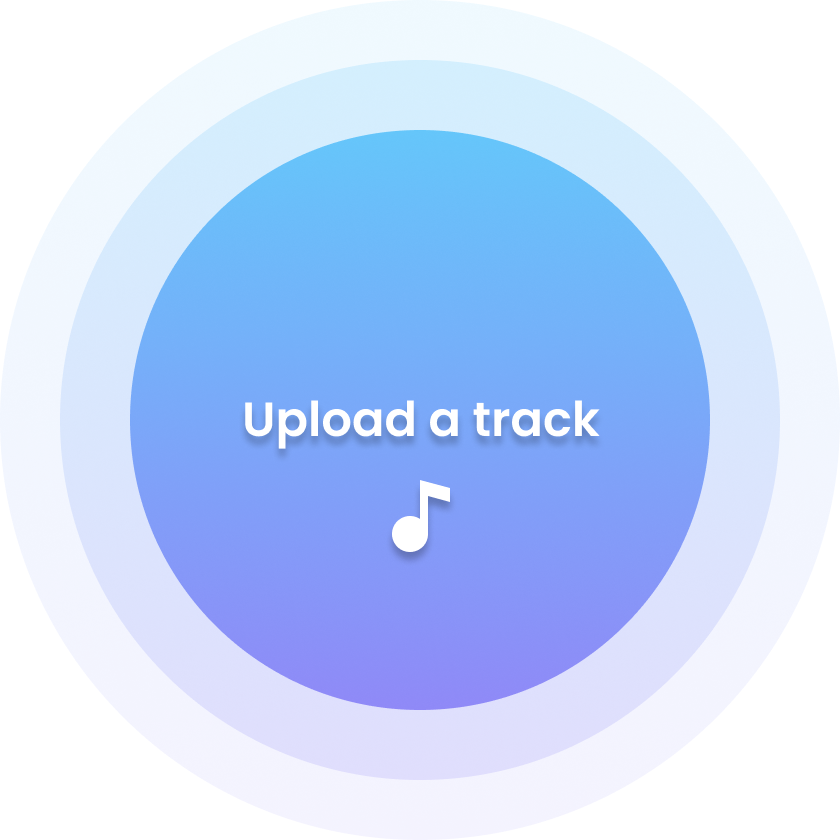
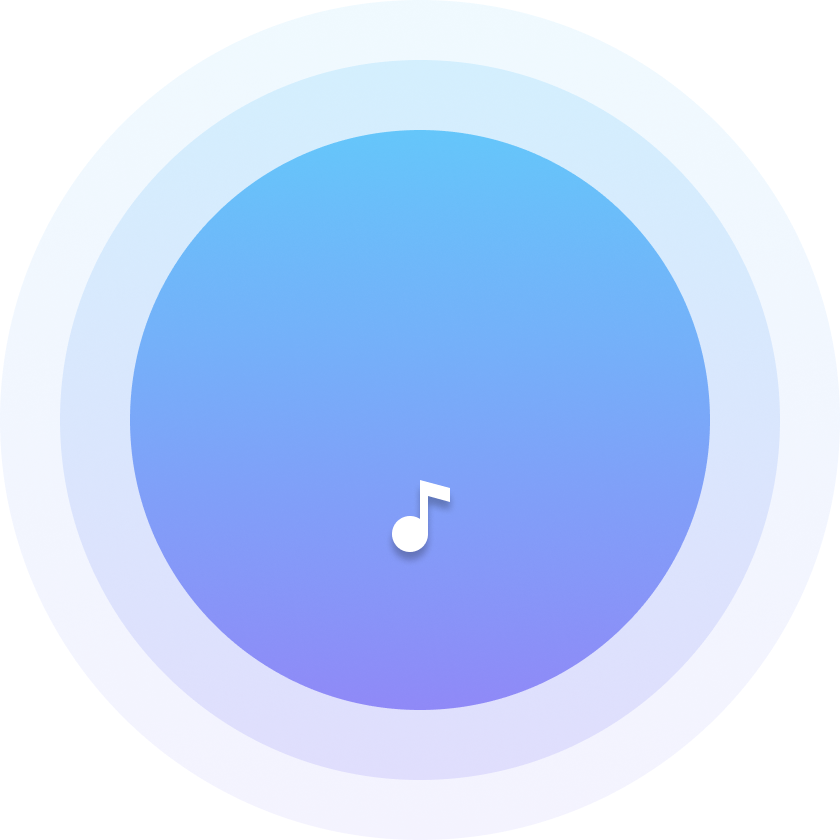
changes

Changed region(s): [[0.2786, 0.4643, 0.7119, 0.5571]]

diff --git a/index.html b/index.html
@@ -1,177 +1,94 @@
 <!DOCTYPE html>
 <html lang="en">
-  <head>
+
+<head>
     <title>Vocal Remover & Instrumental AI Splitter | SPLITTER.AI</title>
-    <link
-      rel="shortcut icon"
-      type="image/x-icon"
-      href="assets/icons/favicon.ico"
-    />
+    <link rel="shortcut icon" type="image/x-icon" href="assets/icons/favicon.ico" />
     <link rel="stylesheet" href="components/stylesheets/splitter_upload.css" />
     <link rel="stylesheet" href="components/stylesheets/navigation_bar.css" />
-    <link
-      rel="stylesheet"
-      href="components/stylesheets/general_components.css"
-    />
-    <style>
-      .text {
-        /* font-weight: 400; */
-        letter-spacing: 4.8px;
-        text-transform: uppercase;
-        font-family: "Kanit";
-        font-size: 8px;
-        fill: #111;
-        /* text-shadow: 2px 0px #ccc; */
-      }
+    <link rel="stylesheet" href="components/stylesheets/general_components.css" />
 
-      .caption_text {
-        letter-spacing: 1.1px;
-        text-transform: uppercase;
-        font-family: "Kanit";
-        font-size: 12px;
-        color: grey;
-      }
+</head>
 
-      #rotatingText {
-        animation-name: rotate-circle;
-        animation-duration: 60s;
-        animation-timing-function: linear;
-        animation-iteration-count: infinite;
-        grid-area: 1 / 1;
-      }
-
-      @keyframes rotate-circle {
-        to {
-          transform: rotate(1turn);
-        }
-      }
-
-      .main {
-        display: grid;
-        align-items: center;
-        justify-items: center;
-        grid-template-columns: 1fr;
-        grid-template-rows: 1fr;
-      }
-
-      .main .fileupload {
-        width: 65%;
-        height: 65%;
-        object-fit: cover;
-        grid-area: 1 / 1;
-      }
-      .p {
-        margin-top: -500px;
-        z-index: 1;
-        margin-left: 100px;
-        font-weight: 500;
-        color: black;
-      }
-
-      label {
-        /* display: block; */
-        margin-bottom: 5px;
-      }
-      .p input[type="file"] {
-        border-radius: 3px;
-        cursor: pointer;
-      }
-    </style>
-  </head>
-
-  <body class="body">
+<body class="body">
     <header>
-      <a href="#" class="logo" target="_blank">
-        <img src="assets/icons/favicon.ico" alt="" />
-      </a>
+        <a href="#" class="logo" target="_blank">
+            <img src="assets/icons/favicon.ico" alt="" />
+        </a>
 
-      <input
-        class="menu-icon"
-        type="checkbox"
-        id="menu-icon"
-        name="menu-icon"
-      />
-      <label for="menu-icon"></label>
-      <nav class="nav">
-        <ul class="pt-5">
-          <li><a href="#">Home</a></li>
-          <li><a href="#">Blogs</a></li>
-          <li><a href="#">About</a></li>
-          <li><a href="#">Contact</a></li>
-        </ul>
-      </nav>
+        <input class="menu-icon" type="checkbox" id="menu-icon" name="menu-icon" />
+        <label for="menu-icon"></label>
+        <nav class="nav">
+            <ul class="pt-5">
+                <li><a href="#">Home</a></li>
+                <li><a href="#">Blogs</a></li>
+                <li><a href="#">About</a></li>
+                <li><a href="#">Contact</a></li>
+            </ul>
+        </nav>
     </header>
 
     <!-- Divide Screen into two equal parts -->
     <div class="split left">
-      <div class="centered">
-        <div class="main">
-          <input
-            class="fileupload"
-            type="image"
-            src="assets/images/circular.png"
-            width="450"
-            height="450"
-          />
-          <p class="p">
-            <label for="soundFile"></label>
-            <input type="file" id="soundFile" accept="audio/*" />
-          </p>
-          <input type="file" id="my_file" style="display: none" />
-          <svg id="rotatingText" viewBox="0 0 200 200" width="500" height="500">
-            <defs>
-              <path
-                id="circle"
-                d="M 100, 100
+        <div class="centered">
+            <div class="main">
+                <input class="fileupload" type="image" src="assets/images/circular.png" width="450" height="450" />
+                <p class="uploadText">
+                    <!-- <label for="soundFile"></label>
+                    <input type="file" id="soundFile" accept="audio/*" /> -->
+                    <input id="upload" hidden type="file" />
+                    <label for="upload" class="btn btn-primary" tabindex="2">Upload music File</label>
+                </p>
+                <input type="file" id="my_file" style="display: none" />
+                <svg id="rotatingText" viewBox="0 0 200 200" width="500" height="500">
+                    <defs>
+                        <path id="circle" d="M 100, 100
                             m -75, 0
                             a 75, 75 0 1, 0 150, 0
                             a 75, 75 0 1, 0 -150, 0
-                            "
-              ></path>
-            </defs>
-            <text width="500">
-              <textPath
-                alignment-baseline="top"
-                xlink:href="#circle"
-                class="text"
-              >
-                • UPLOAD A TRACK • UPLOAD A TRACK • UPLOAD A TRACK •
-              </textPath>
-            </text>
-          </svg>
-        </div>
+                            "></path>
+                    </defs>
+                    <text width="500">
+                        <textPath alignment-baseline="top" xlink:href="#circle" class="text">
+                            • UPLOAD A TRACK • UPLOAD A TRACK • UPLOAD A TRACK •
+                        </textPath>
+                    </text>
+                </svg>
+            </div>
 
-        <!-- display text in light grey color -->
-        <div class="caption_text">
-          <p>
-            We support mp3, wav, flac, aiff, aif, mp4a, and m4a formats. For the
-            best results, upload in high resolution.
-          </p>
+            <!-- display text in light grey color -->
+            <div class="caption_text">
+                <p>
+                    We support mp3, wav, flac, aiff, aif, mp4a, and m4a formats. For the
+                    best results, upload in high resolution.
+                </p>
+            </div>
         </div>
-      </div>
     </div>
 
     <div class="split right">
-      <div class="centered">
-        <h1 class="align-right">Get Your Stems</h1>
-        <p class="description">
-          For sync licensing, sampling, remastering, remixing, and re-imagining.
-        </p>
-        <style>
-          .description {
-            font-size: 10px;
-            font-family: "Kanit";
-            font-weight: 400;
-            letter-spacing: 1.1px;
-            text-transform: uppercase;
-            color: grey;
-            margin-bottom: 24px;
-          }
-        </style>
+        <div class="centered">
+            <h1 class="align-right">Get Your Stems</h1>
+            <p class="description">
+                For sync licensing, sampling, remastering, remixing, and re-imagining.
+            </p>
+            <style>
+                .description {
+                    font-size: 10px;
+                    font-family: "Kanit";
+                    font-weight: 400;
+                    letter-spacing: 1.1px;
+                    text-transform: uppercase;
+                    color: grey;
+                    margin-bottom: 24px;
+                }
+            </style>
 
-        <button class="button button1">TRY FOR FREE</button>
-      </div>
+            <button class="button button1">   <input id="upload" hidden type="file" />
+                <label for="upload" class="btn btn-primary" tabindex="2">TRY FOR FREE</label></button>
+        </div>
     </div>
-  
-  </body>
+
+</body>
+
 </html>

diff --git a/about.html b/about.html
@@ -154,14 +154,13 @@
     <!-- about section -->
     <div class="about">
       <div class="about-header">
-        <h1>What is lalal.com?</h1>
+        <h1>What is audiosplitter.ai?</h1>
       </div>
       <div class="about-text">
         <span>
           A next-generation vocal remover and music source separation service
-          for fast, easy and precise stem extraction. Remove vocal,
-          instrumental, drums, bass, piano, electric guitar, acoustic guitar,
-          and synthesizer tracks without quality loss.
+          for fast, easy and precise stem extraction. Remove vocal and
+          instrumental, tracks without quality loss.
         </span>
       </div>
       <div class="icons-tag">
@@ -178,7 +177,7 @@
         <div class="box">
           <div class="box-content">
             <div class="box-inside">
-              <img src="/play.png" alt="" id="playbtn" />
+              <img src="play.png" alt="" id="playbtn" />
               <span style="font-size: 30px">Sample</span>
             </div>
 
@@ -189,7 +188,7 @@
         <div class="box">
           <div class="box-content">
             <div class="box-inside">
-              <img src="/play.png" alt="" id="playbtn" />
+              <img src="play.png" alt="" id="playbtn" />
               <span style="font-size: 30px">Sample</span>
             </div>
 
@@ -200,7 +199,7 @@
         <div class="box">
           <div class="box-content">
             <div class="box-inside">
-              <img src="/play.png" alt="" id="playbtn" />
+              <img src="play.png" alt="" id="playbtn" />
               <span style="font-size: 30px">Sample</span>
             </div>
 
@@ -257,6 +256,7 @@
       height: 50,
       barRedius: 4,
     });
+    
     wavesurfer.load(
       "https://s.lalal.ai/music/home/Lets_Call_it_by_LawrenceTrailer_cut.mp3"
     );

diff --git a/components/stylesheets/general_components.css b/components/stylesheets/general_components.css
@@ -32,3 +32,73 @@
     margin-bottom: 0;
   
 }
+
+
+.text {
+    /* font-weight: 400; */
+    letter-spacing: 4.8px;
+    text-transform: uppercase;
+    font-family: "Kanit";
+    font-size: 8px;
+    fill: #111;
+    /* text-shadow: 2px 0px #ccc; */
+}
+
+.caption_text {
+    letter-spacing: 1.1px;
+    text-transform: uppercase;
+    font-family: "Kanit";
+    font-size: 12px;
+    color: grey;
+}
+
+#rotatingText {
+    animation-name: rotate-circle;
+    animation-duration: 60s;
+    animation-timing-function: linear;
+    animation-iteration-count: infinite;
+    grid-area: 1 / 1;
+}
+
+@keyframes rotate-circle {
+    to {
+        transform: rotate(1turn);
+    }
+}
+
+.main {
+    display: grid;
+    align-items: center;
+    justify-items: center;
+    grid-template-columns: 1fr;
+    grid-template-rows: 1fr;
+}
+
+.main .fileupload {
+    width: 65%;
+    height: 65%;
+    object-fit: cover;
+    grid-area: 1 / 1;
+}
+
+.uploadText {
+    margin-top: -500px;
+    z-index: 1;
+    font-weight: 500;
+    color: white;
+    text-align: center;
+    cursor: pointer;
+
+}
+
+label {
+    margin-bottom: 5px;
+}
+
+
+
+.p input[type="file"] {
+    border-radius: 0px;
+    cursor: pointer;
+    color: white;
+}
